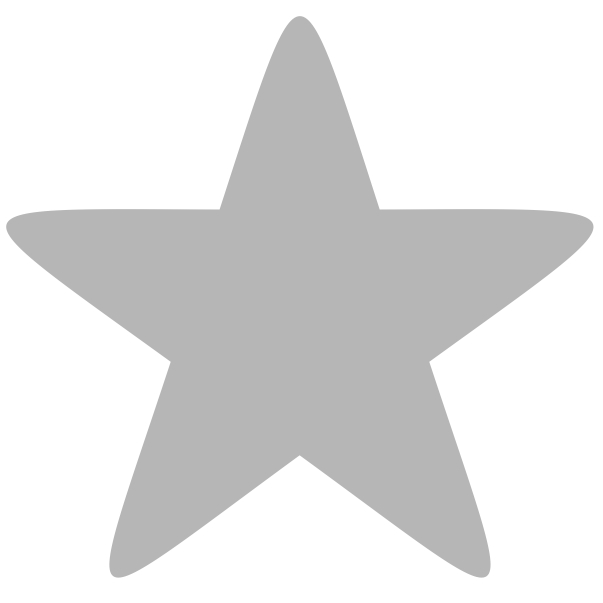
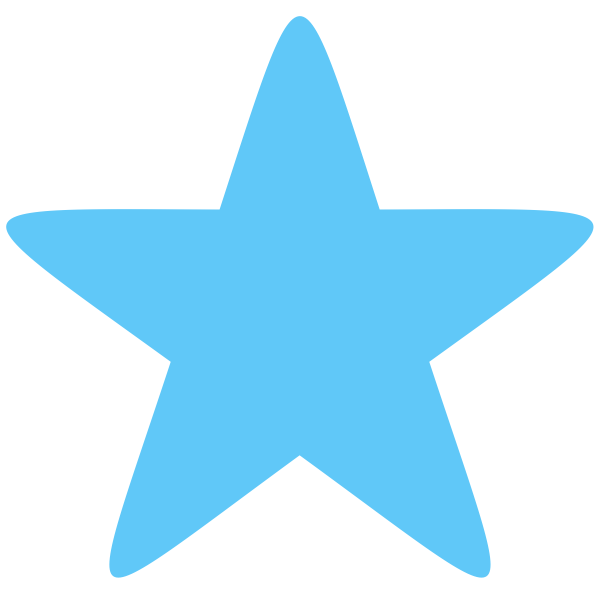
animatino

diff --git a/SourceCode/src/app/components/Streak/Streak.jsx b/SourceCode/src/app/components/Streak/Streak.jsx
@@ -22,7 +22,7 @@ export default class Streak extends React.Component {
   render() {
     return (
       <div className="streak-wrapper">
-        <img className='streak-bg' src={star} width='40' height='40'/>
+        <div className='streak-bg'><img className={this.props.correct?'active':''} src={star} width='40' height='40'/></div>
         <div className={`streak-count ${this.props.correct}`}>{this.props.streak}</div>
       </div>
     );

diff --git a/SourceCode/src/app/components/Streak/Streak.scss b/SourceCode/src/app/components/Streak/Streak.scss
@@ -35,9 +35,18 @@
 }*/
 .streak-bg{
   position:absolute;
-  top: -8px;
+  top: -7px;
   left: -2px;
-  opacity: 0.5;
+  opacity: 0.4;
+  img{
+    transform-origin: center center;
+    transition: transform .7s;
+    transform:scale(.8);
+    &.active{
+      transform:scale(1.2);
+      transition: transform .25s;
+    }
+  }
 }
 .streak-count{
   opacity:1;
